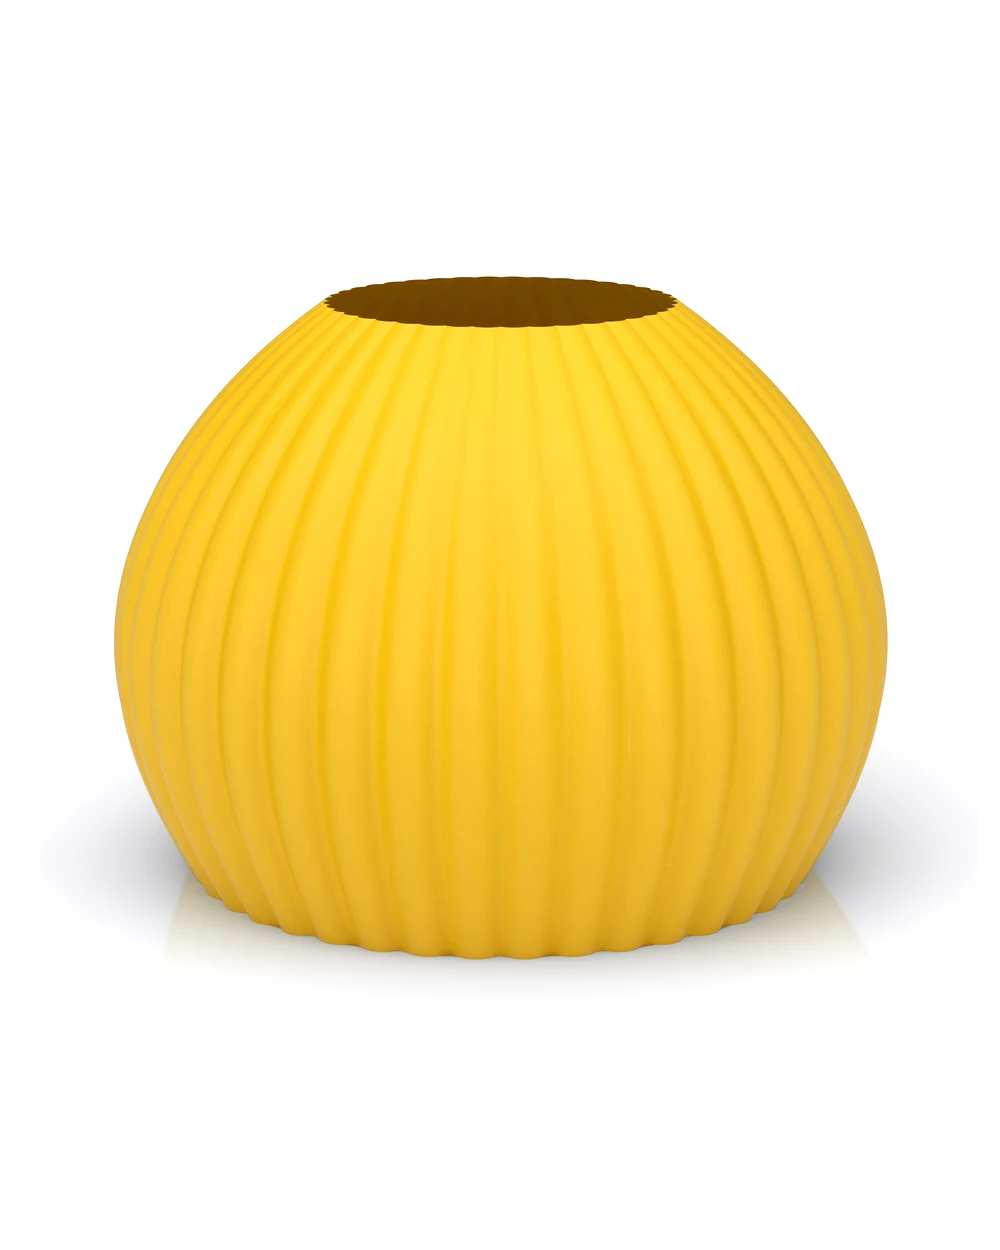
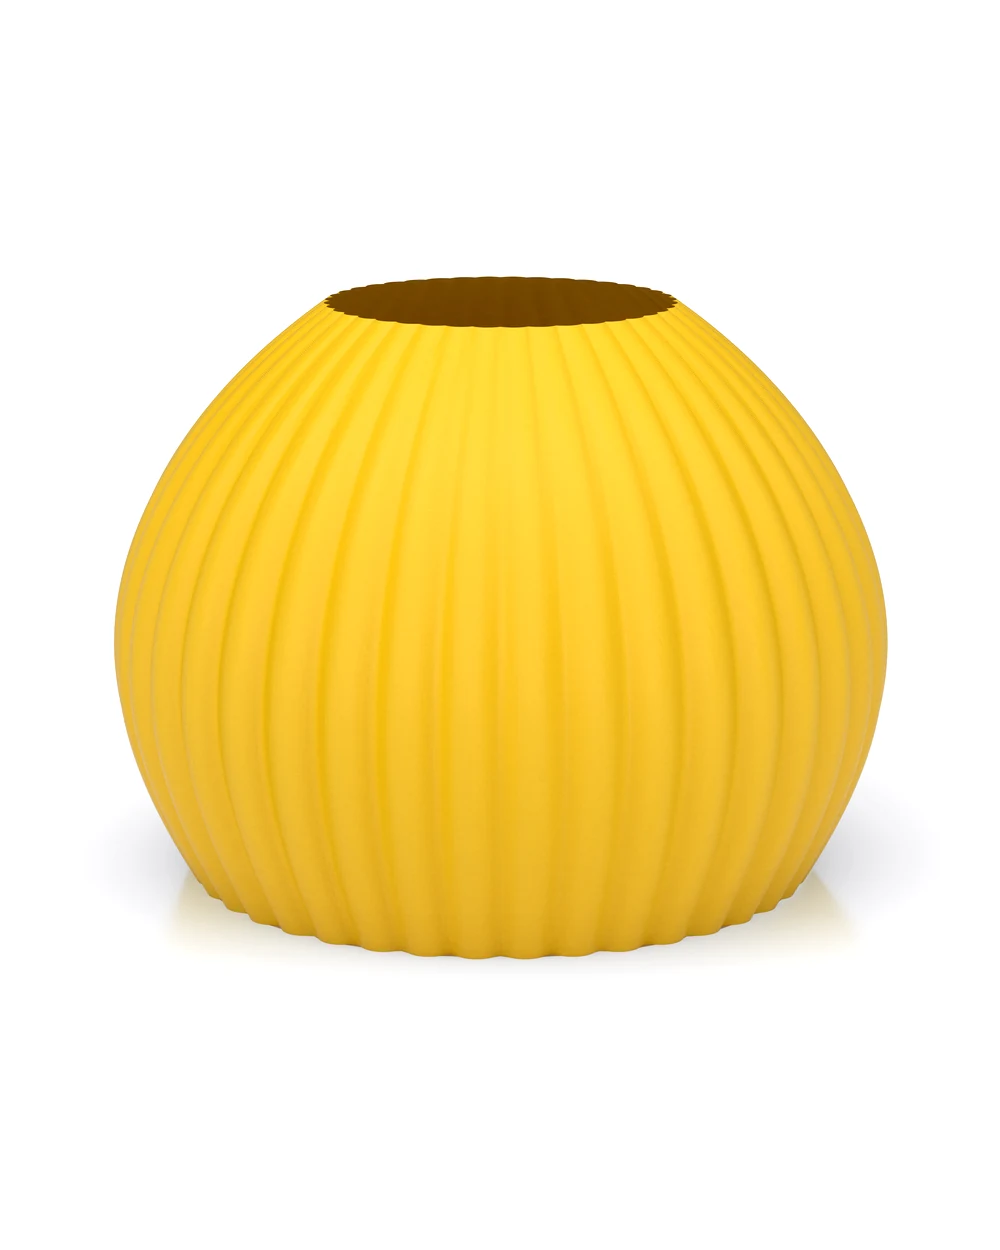
Bombato: riflesso sfumato alla base, ombra ridotta, sfondo uniforme
Claude-Session: https://claude.ai/code/session_01MGUzPwwzTWodVZRn9utq3A

Changed region(s): [[0.279, 0.624, 0.899, 0.78], [0.124, 0.6552, 0.279, 0.7488]]

diff --git a/prodotto-bombato.html b/prodotto-bombato.html
@@ -704,19 +704,19 @@
     /* Il render del vaso in ogni colore (sito, luce uguale per tutti). Compare nel
        riquadro solo quando si tocca il pallino: NON e' fra le miniature. */
     var COLORI = {
-      "#a3444d":"images/Bombato/colori/bombato-red-wine.webp?v=c3",
-      "#91535d":"images/Bombato/colori/bombato-bordeaux.webp?v=c3",
-      "#bcbfb0":"images/Bombato/colori/bombato-sage.webp?v=c3",
-      "#646666":"images/Bombato/colori/bombato-antracite.webp?v=c3",
-      "#d8d0cd":"images/Bombato/colori/bombato-off-white.webp?v=c3",
-      "#e7cac0":"images/Bombato/colori/bombato-rose.webp?v=c3",
-      "#346371":"images/Bombato/colori/bombato-emerald-green.webp?v=c3",
-      "#0095a1":"images/Bombato/colori/bombato-blu-lagoon.webp?v=c3",
-      "#6b1492":"images/Bombato/colori/bombato-viola.webp?v=c3",
-      "#dd1d76":"images/Bombato/colori/bombato-magenta.webp?v=c3",
-      "#fed003":"images/Bombato/colori/bombato-giallo.webp?v=c3",
-      "#00924f":"images/Bombato/colori/bombato-verde.webp?v=c3",
-      "#e0bf42":"images/Bombato/colori/bombato-golden.webp?v=c3"
+      "#a3444d":"images/Bombato/colori/bombato-red-wine.webp?v=c4",
+      "#91535d":"images/Bombato/colori/bombato-bordeaux.webp?v=c4",
+      "#bcbfb0":"images/Bombato/colori/bombato-sage.webp?v=c4",
+      "#646666":"images/Bombato/colori/bombato-antracite.webp?v=c4",
+      "#d8d0cd":"images/Bombato/colori/bombato-off-white.webp?v=c4",
+      "#e7cac0":"images/Bombato/colori/bombato-rose.webp?v=c4",
+      "#346371":"images/Bombato/colori/bombato-emerald-green.webp?v=c4",
+      "#0095a1":"images/Bombato/colori/bombato-blu-lagoon.webp?v=c4",
+      "#6b1492":"images/Bombato/colori/bombato-viola.webp?v=c4",
+      "#dd1d76":"images/Bombato/colori/bombato-magenta.webp?v=c4",
+      "#fed003":"images/Bombato/colori/bombato-giallo.webp?v=c4",
+      "#00924f":"images/Bombato/colori/bombato-verde.webp?v=c4",
+      "#e0bf42":"images/Bombato/colori/bombato-golden.webp?v=c4"
     };
 
     var stato = { vista:'foto', da:'foto', foto:0, color:'#a3444d', nomeColore:'Red Wine', modelloAvviato:false };
